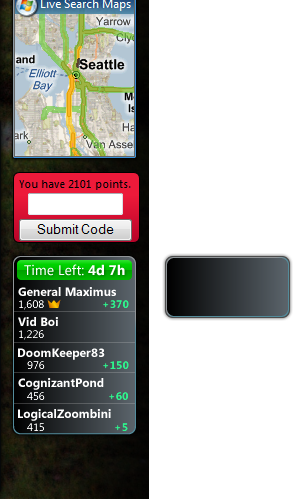
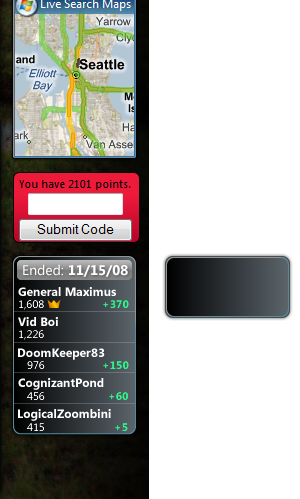
Support pending challenges.

Changed region(s): [[0.06, 0.511, 0.45, 0.5711]]

diff --git a/360VoiceChallenge.js b/360VoiceChallenge.js
@@ -21,7 +21,6 @@ function init() {
         
     updateBackground();
     
-    // TODO: Get this working
     System.Gadget.Flyout.file = "Gamercard.html";
     System.Gadget.Flyout.onShow = setupFlyout;
     System.Gadget.Flyout.onHide = hideFlyout;
@@ -53,15 +52,18 @@ function updateTimeLeft() {
   
   var diff = endDate.getTime() - nowMs;
   
+  // If it's in the past...
   if (diff < 0) {
     $('#timer')
-      .removeClass('finishing')
+      .removeClass('finishing pending')
       .addClass('over')
-      .find('.time').text(window.endDate);
+      .find('.time').text(window.endDate).end()
+      .find('.label').text('Ended');
     
     return false;
   } else {
-    $('#timer').removeClass('over');
+    $('#timer').removeClass('over pending')
+      .find('.label').text('Time Left');
   }
   
   var days = Math.floor(diff / DAY);
@@ -111,82 +113,103 @@ function checkUpdateStandings() {
   });  
 }
 
+function scheduleDailyStandingsUpdate() {
+  // Schedule an update check again at 5AM PST
+  var now = new Date();
+  
+  // If it's less than 5AM PST
+  if ( now.getUTCHours() < 13 ) {
+    timeToUpdate = new Date(now.getTime());
+  } else {
+    timeToUpdate = new Date(now.getTime() + DAY);
+  }
+  timeToUpdate.setUTCHours(13, 0, 0, 0);
+  
+  var msToUpdate = timeToUpdate.getTime() - now.getTime();
+	setTimeout("checkUpdateStandings()", msToUpdate);
+}
+
 // Get the new standings. This will retry every minute until it works.
 function updateStandings() {
   clearTimeout(window.updateStandingsTimer);
   window.updateStandingsTimer = setTimeout('updateStandings()', MINUTE);
 
   $.ajax({
-    url: 'http://www.360voice.com/api/challenge-details.asp?tag=' + window.gamertag,
+    url: 'http://www.360voice.com/api/challenge-details.asp?tag=' + encodeURIComponent(window.gamertag),
     dataType: 'xml',
     cache: false,
     timeout: 30 * SECOND,
     success: function(data) {
+      clearTimeout(window.updateStandingsTimer);
+      clearLiveScoreIntervals();
+
       window.challengeId = parseInt($('challengeid', data).text());
       
       $('#loading').hide();
       
+      // This means the gamertag was invalid (probably) - we won't update again until it changes.
       if ( $('error', data).text().indexOf('Invalid:') >= 0) {
         window.challengeId = null;
-        clearLiveScoreIntervals();
         $('#noChallenges').show();
         $('#standings, #timer').hide();
         updateBackground();
         return;
-      } else {
-        $('#noChallenges').hide();
-        $('#standings, #timer').show();        
-      }
-      
-      clearTimeout(window.updateStandingsTimer);
+      } 
+        
+      $('#noChallenges, #pendingChallenge').hide();
+      $('#standings, #timer').show();
 
+      // TODO: move this into updateTimeLeft?
       // Really? Not the previous day?
       window.endDate = $('end', data).text();
       
+      // Figure out if we're in a pending challenge
+      var startDateString = $('start', data).text();
+      if ( ! startDateString || new Date(startDateString + ' 00:00:00 PST').getTime() > (new Date()).getTime() || ! window.endDate ) {
+          $('#pendingChallenge').show();
+          $('#standings').hide();       
+          $('#timer')
+            .removeClass('over finishing')
+            .addClass('pending')
+            .find('.time')
+              .text(startDateString || '??/??/????')
+            .end()
+            .find('.label')
+              .text('Starts on')
+            .end();
+          updateBackground();
+                        
+          if ( startDateString ) {
+            // TODO: Maybe it starts at midnight even if it hasn't processed the starting scores?
+            scheduleDailyStandingsUpdate();            
+          } else {            
+            // Check again in an hour to see if the challenge has launched
+            window.updateStandingsTimer = setTimeout('updateStandings()', HOUR);
+          }
+          return;
+      }
+      
       var stillGoing = updateTimeLeft();
       
-      var gamers = [];
       var gamers = $('gamer', data).map(function() {
         return {
           gamertag: $('tag', this).text(),
           score: parseInt($('totalgain', this).text()),
-          dailygs: parseInt($('dailygs', this).text())
+          dailygs: parseInt($('dailygs', this).text()),
+          place: parseInt($('place', this).text())
         };
       }).get();
       
       window.gamers = gamers;
       
       updateGamerList();
-      
-      if( ! stillGoing ) {
-        $('#standings .info:first .emblem').append(
-          $('<img/>').attr({
-            src: 'images/crown.png'
-          })
-        );
-      } else {
-        $('#standings .info:first .emblem').empty();
-      }
-      
-      updateBackground();
-      
-      // Schedule an update check again at 5AM PST
-      var now = new Date();
-      
-      // If it's less than 5AM PST
-      if ( now.getUTCHours() < 13 ) {
-        timeToUpdate = now;
-      } else {
-        timeToUpdate = new Date(now.getTime() + DAY);
-      }
-      timeToUpdate.setUTCHours(13, 0, 0, 0);
-      
-      var msToUpdate = timeToUpdate.getTime() - now.getTime();
-  		setTimeout("checkUpdateStandings()", msToUpdate); 		
-
-      clearLiveScoreIntervals();
+            
+      updateBackground();      
+      scheduleDailyStandingsUpdate();
 
       if (stillGoing) {
+        // TODO: use a class instead of emptying?
+        $('#standings .info:first .emblem').empty();
         kickOffLiveScoreUpdates(gamers);
       }
     }
@@ -224,7 +247,14 @@ function updateGamerList() {
         }
       },
       '.score': '{score}',
-      '.gamertag': '<a href="#">{gamertag}</a>'
+      '.gamertag': '<a href="#">{gamertag}</a>',
+      '.emblem': function(data, elem) {
+        if ( data.place == 1 ) {
+          return '<img src="images/crown.png" />';
+        } else {
+          return '';
+        }
+      }
     })
     .find('.gamertag a')
       .click(handleGamerClick)
@@ -255,14 +285,17 @@ function kickOffLiveScoreUpdates(gamers) {
 // Every hour. If it fails it'll just get run next hour.
 function updateLiveScore(gamer) {
   $.ajax({
-    url: 'http://duncanmackenzie.net/services/GetXboxInfo.aspx?GamerTag=' + gamer.gamertag,
+    url: 'http://duncanmackenzie.net/services/GetXboxInfo.aspx?GamerTag=' + encodeURIComponent(gamer.gamertag),
     cache: false,
     dataType: 'xml',
     timeout: 30 * SECOND,
     success: function (data) {
       var score = parseInt($('XboxInfo > GamerScore', data).text());
       gamer.livescore = score - gamer.dailygs;
-      updateGamerList();
+      
+      if (gamer.livescore > 0) {
+        updateGamerList();
+      }
     }
   });
 }
@@ -291,7 +324,7 @@ function setupFlyout() {
   if(System.Gadget.Flyout.show) {
     var flyoutDoc = System.Gadget.Flyout.document;    
 		var gamercard = flyoutDoc.getElementById("gamercard");
-		gamercard.src = "http://gamercard.xbox.com/" + window.selectedGamertag + ".card";
+		gamercard.src = "http://gamercard.xbox.com/" + encodeURIComponent(window.selectedGamertag) + ".card";
   }
 }
 
@@ -303,7 +336,7 @@ function hideFlyout() {
 function reset() {
 	try {
     $('#loading').show();
-    $('#standings, #timer, #noChallenges').hide();
+    $('#standings, #timer, #noChallenges, #pendingChallenge').hide();
     updateBackground();
     
 		// Refresh    

diff --git a/360VoiceChallenge.html b/360VoiceChallenge.html
@@ -16,12 +16,12 @@
   <g:background id="bg" src="images/trans.png" style="position:absolute;top:0;left:0;width:130px;height:1000px;z-index:-999" />
   <div id="debug"></div>
   <div id="container">
-    <div id="loading">Loading...</div>
-    <div id="noChallenges">You have not participated in any challenges.</div>
+    <div class="message" id="loading">Loading...</div>
+    <div class="message" id="noChallenges">You have not participated in any challenges.</div>    
     <div id="timer">
-      <span class="current"><a href="#">Time Left: <span class="time">??</span></a></span>
-      <span class="old"><a href="#">Ended: <span class="time">??</span></a></span>
-    </div>
+      <a href="#"><span class="label">Time Left</span>: <span class="time">??</span></a>
+    </div>    
+    <div class="message" id="pendingChallenge">You've joined a challenge that hasn't launched yet.</div>
     <table id="standings">
       <tr>
         <td class="gamertag" colspan="3"></td>

diff --git a/360VoiceChallenge.css b/360VoiceChallenge.css
@@ -55,21 +55,11 @@ body {
 #timer a:hover {
   text-decoration: underline;
 }
-#timer.over {
+#timer.over, #timer.pending {
   background-image: url(images/timer_over.png);
 }
 #timer.finishing {
   background-image: url(images/timer_finishing.png);
-}
-
-#timer .old {
-  display: none;
-}
-#timer.over .old {
-  display: inline;
-}
-#timer.over .current {
-  display: none;
 }
 
 #standings {
@@ -122,7 +112,7 @@ body {
 #standings .info .livescore {
   color: #2EF38C;
   font-weight: bold;
-  padding-right: 8px;
+  padding-right: 5px;
   width: 5%;
 }
 
@@ -130,7 +120,7 @@ body {
   border: none;
 }
 
-#loading, #noChallenges {
+.message {
   text-align: center;
   margin: 1em 0;
 }

diff --git a/Settings.html b/Settings.html
@@ -1,7 +1,7 @@
 <!DOCTYPE HTML PUBLIC "-//W3C//DTD HTML 4.01//EN" "http://www.w3.org/TR/html4/strict.dtd">
 <html>
 <head>
-	<title>Bungie Card Settings</title>	
+	<title>360Voice.com Challenges</title>	
 	<style type="text/css">
 		body {
 			font-family: 'Segoe UI', Tahoma, Verdana, Arial, sans-serif;
